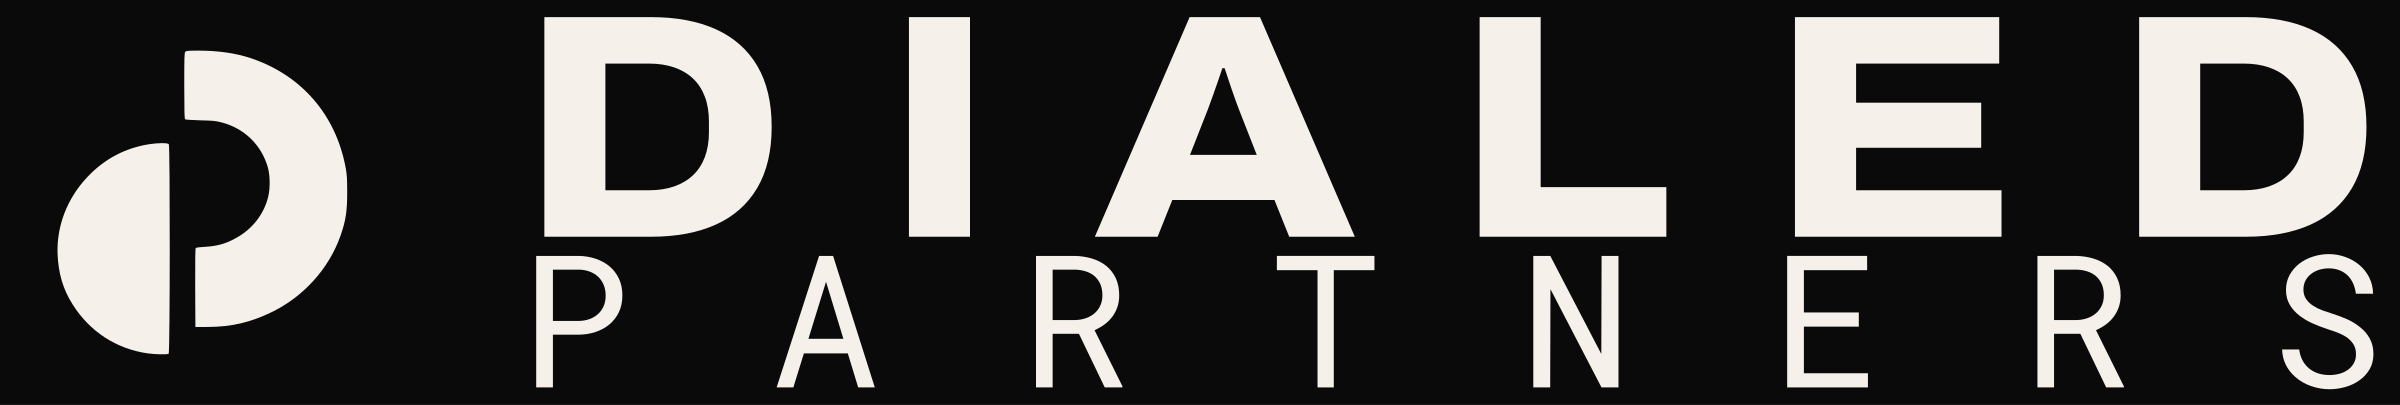
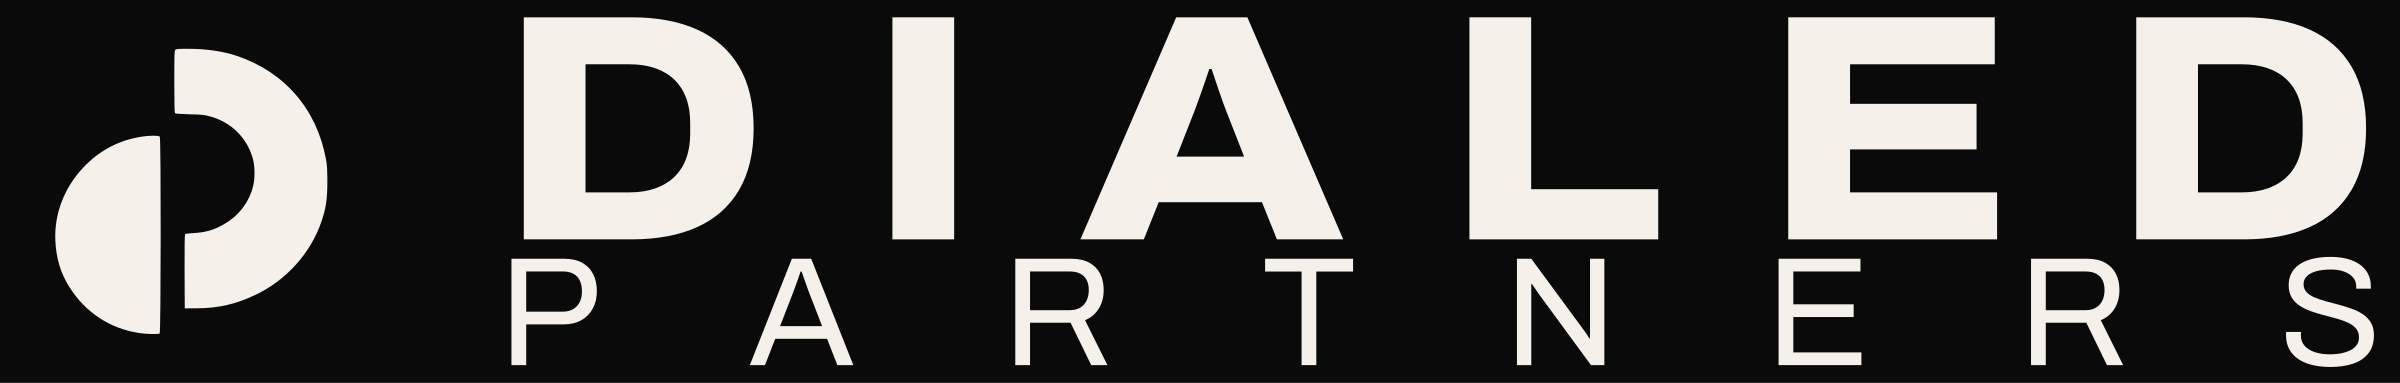
Rev PARTNERS to Archivo 400 counterline + add centered stacked variants
PARTNERS now set in Archivo 400 Regular (same family as DIALED, lighter
weight, standard 100% width) at 0.48x DIALED cap height and +0.951em
letter-spacing so both lines still terminate at the exact same x.
Replaces the Roboto Mono treatment per Jimmy's v3 reference.

- DIALED unchanged (Archivo 800 / 112% caps, +0.300em)
- PARTNERS: Archivo 400 / 100% caps, cap 0.48x DIALED, LS +0.951em
- Same discipline applied to all stacked variants: mark-on-left and
  mark-on-top (centered) stacked, stacked wordmark no-mark

New variants added to the brand kit lockup set:
- dialedpartners-lockup-stacked-centered-{storm,bone,white}.svg -
  mark centered on top, DIALED/PARTNERS centered below
- dialedpartners-lockup-centered-dialed-{storm,bone,white}.svg -
  mark centered on top, DIALED only (no PARTNERS)

Site header retains the mark-on-left stacked composition. img width
bumped to 282 to match the new 6.27:1 aspect ratio.

brand-guidelines.md §3a and dialedpartners-brand-kit SKILL updated with
the Archivo 400 PARTNERS specs.

diff --git a/contact.html b/contact.html
@@ -27,7 +27,7 @@
 <header class="site-header">
   <div class="wrap">
     <a class="brand" href="index.html" aria-label="DialedPartners home">
-      <img class="brand-lockup" src="assets/img/dialedpartners-lockup-stacked-bone.svg" alt="DialedPartners" width="267" height="45">
+      <img class="brand-lockup" src="assets/img/dialedpartners-lockup-stacked-bone.svg" alt="DialedPartners" width="282" height="45">
     </a>
     <nav class="nav" aria-label="Primary">
       <a href="index.html#about">About</a>

diff --git a/index.html b/index.html
@@ -27,7 +27,7 @@
 <header class="site-header">
   <div class="wrap">
     <a class="brand" href="index.html" aria-label="DialedPartners home">
-      <img class="brand-lockup" src="assets/img/dialedpartners-lockup-stacked-bone.svg" alt="DialedPartners" width="267" height="45">
+      <img class="brand-lockup" src="assets/img/dialedpartners-lockup-stacked-bone.svg" alt="DialedPartners" width="282" height="45">
     </a>
     <nav class="nav" aria-label="Primary">
       <a href="#about">About</a>
